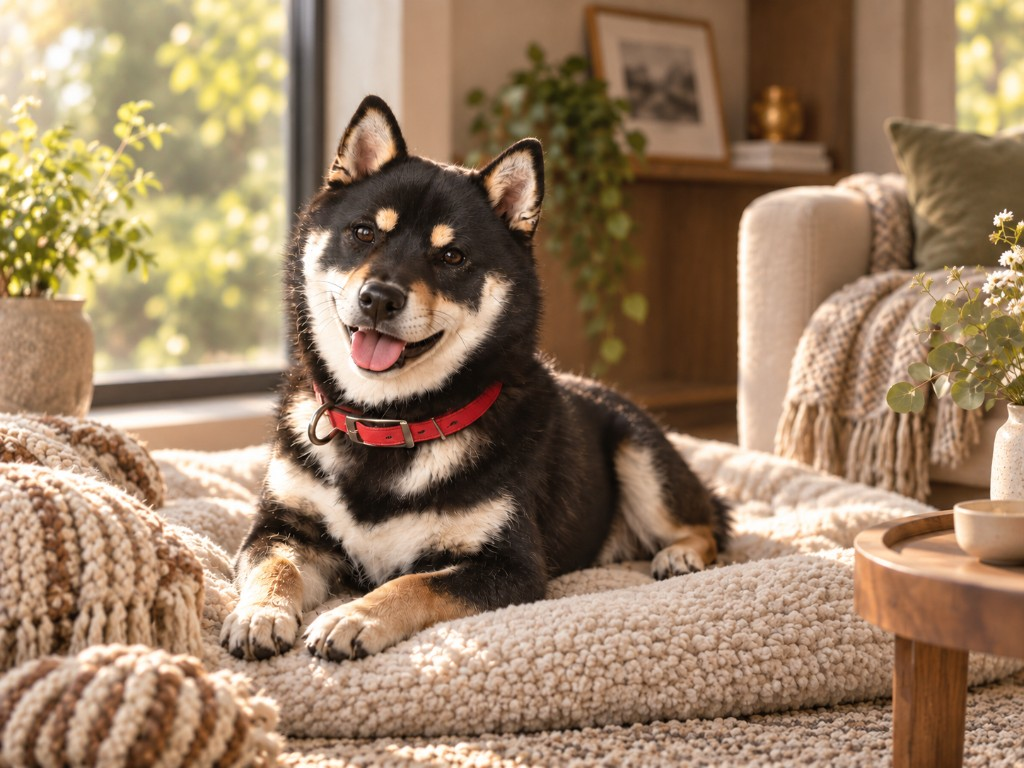
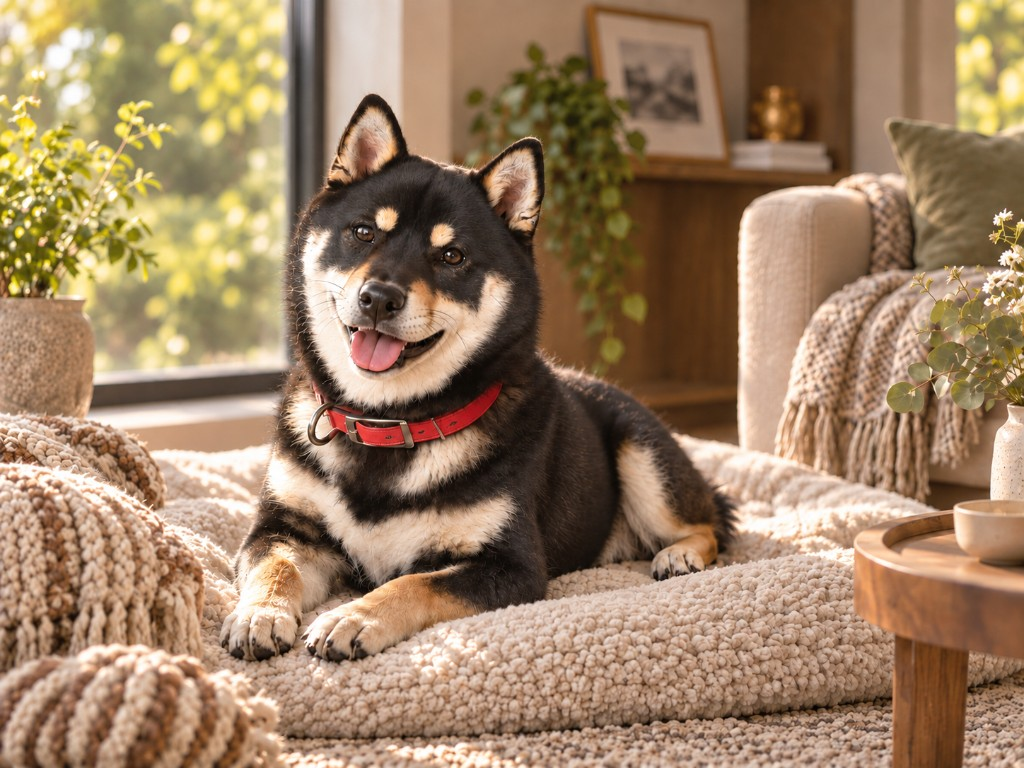
fix(contact): replace the left photo with the new Goya lounge image.

diff --git a/contact-letterbox.js b/contact-letterbox.js
@@ -4,7 +4,7 @@
 
 import { applyI18n, getLang, t } from './i18n.js?v=eb-20261005t';
 
-const CONTACT_IMAGE = 'assets/contact/goya-room.jpg?v=eb-20261005s';
+const CONTACT_IMAGE = 'assets/contact/goya-room.jpg?v=eb-20261005al';
 
 const MAIL = 'jadechoi@eternalbeamapp.com';
 
@@ -27,7 +27,7 @@ function markup() {
     <article class="ctl-card" aria-labelledby="ctl-contact-title">
 
       <div class="ctl-card__viz" aria-hidden="true">
-        <img class="ctl-viz-image" src="${CONTACT_IMAGE}" width="1122" height="1402" alt="" decoding="async">
+        <img class="ctl-viz-image" src="${CONTACT_IMAGE}" width="1024" height="768" alt="" decoding="async">
       </div>
 
       <div class="ctl-card__body">

diff --git a/app.js b/app.js
@@ -1,7 +1,7 @@
 import { initLang } from './i18n.js?v=eb-20261005ak';
 import { initNavShelf } from './nav-shelf.js?v=eb-20261004f';
 import { initPortfolio } from './portfolio.js?v=eb-20260927-merge-1';
-import { initContact } from './contact-letterbox.js?v=eb-20261005s';
+import { initContact } from './contact-letterbox.js?v=eb-20261005al';
 import { initJourney } from './journey.js?v=eb-20260927-merge-1';
 import { initStoryKeep } from './story-keep.js?v=eb-20261005ai';
 import { initHeroOriginal } from './hero-original.js?v=eb-20260927-merge-1';

diff --git a/contact-letterbox.css b/contact-letterbox.css
@@ -99,7 +99,7 @@
   width:100%;
   height:100%;
   object-fit:cover;
-  object-position:42% 48%;
+  object-position:48% 52%;
   pointer-events:none;
 }
 .ctl-card__viz:after{
